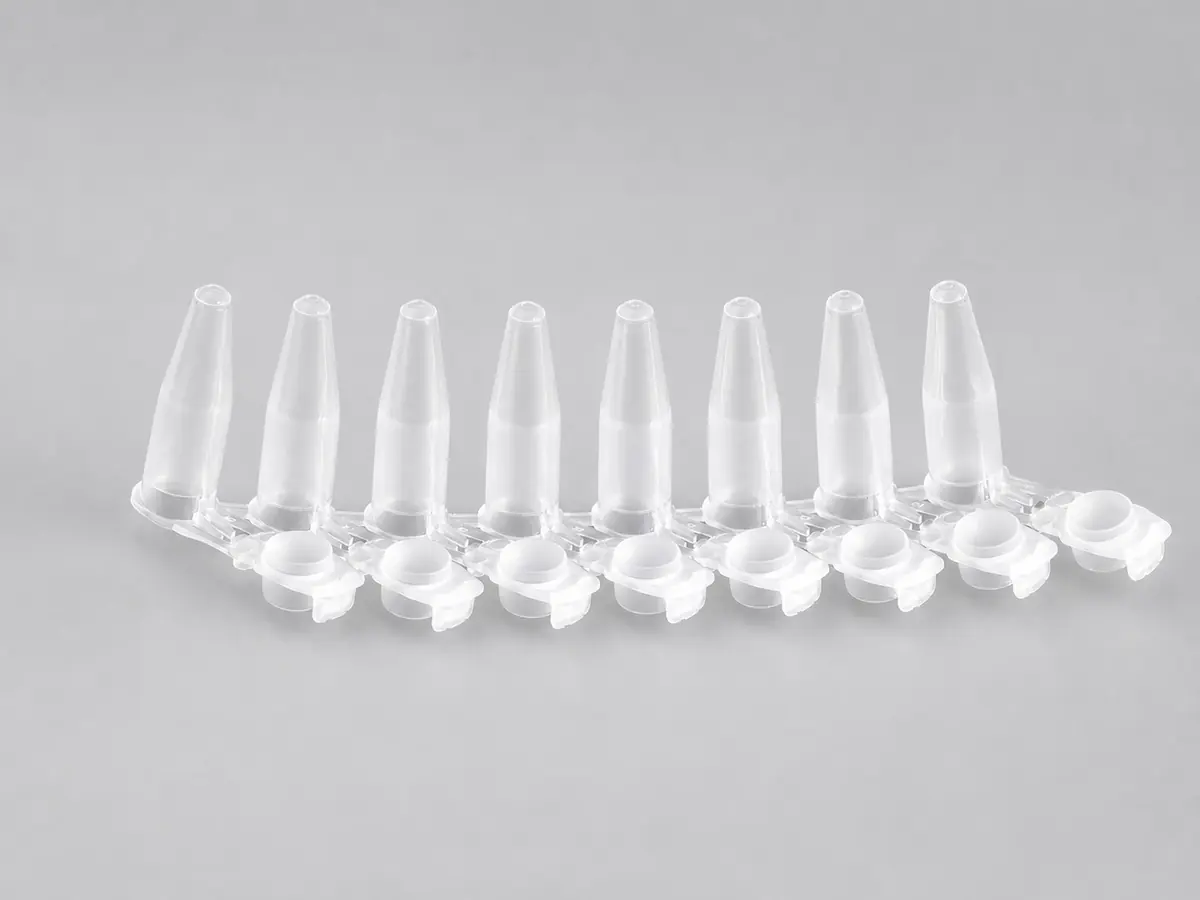
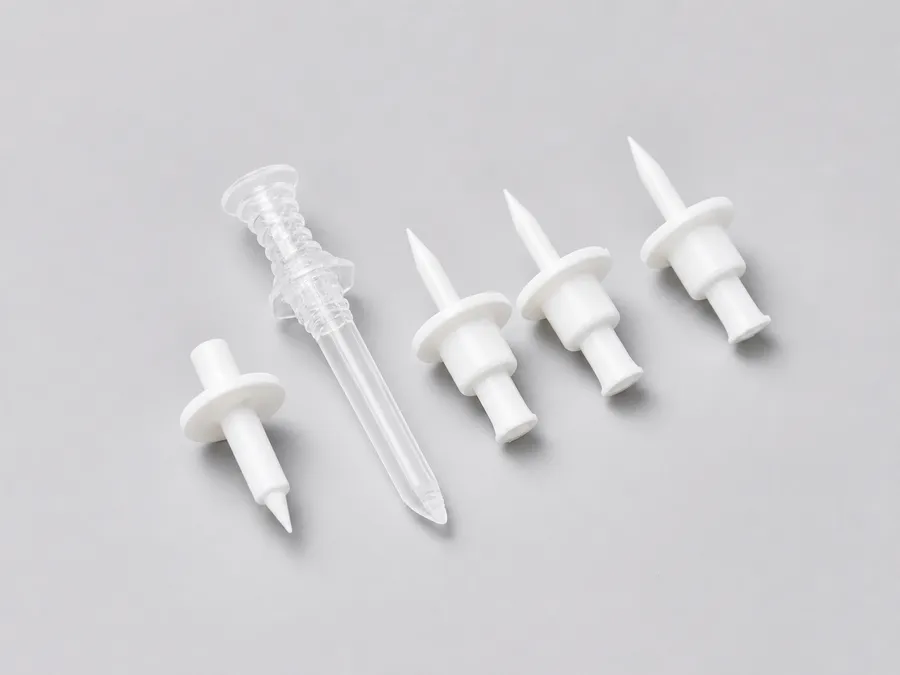
Update Montageservice, Karriere and Labor product images
- Montageservice: swap image, keep full frame (source aspect ratio, no
  crop), align top with heading, move closer to the text column
- Ueber uns: add machinery showcase section (Fraesen/Spritzguss/
  Senkerodieren) above the ISO certificate block
- Karriere: replace all three images, fix left alignment to match the
  container text below, reduce top section spacing
- Produkte: move Medizin to first position; replace the labor pipette
  strip image (no longer usable) with the provided replacement

Claude-Session: https://claude.ai/code/session_01Gbo3VVyPvTwPekFmSdEWrZ

Changed region(s): [[0.0933, 0.1867, 0.9956, 0.8089], [0.0, 0.0, 0.2489, 0.0622], [0.4356, 0.0, 0.4978, 0.0311]]

diff --git a/src/data/site.ts b/src/data/site.ts
@@ -129,6 +129,34 @@ export interface ProductGroup {
 
 export const productGroups: ProductGroup[] = [
   {
+    id: 'medizin',
+    title: 'Formen für die Medizintechnik',
+    cardTitle: 'Medizin',
+    cardText:
+      'Formen für Einmalspritzen, Schutzkappen und Kleinstteile. Partikelfreiheit und lange Lebensdauer sind dokumentierte Ansprüche.',
+    pills: ['Einmalspritzen', 'Schutzkappen', 'Kleinstteile'],
+    intro: [
+      'Für die Medizintechnik fertigt SKT Formen für Einmalspritzen, Adaptionen, Schutzkappen, Verbindungselemente und Kleinstteile.',
+      'Partikelfreiheit, austauschbare Ersatzteile und lange Lebensdauer sind die im Prospekt dokumentierten Ansprüche an diese Formen.',
+    ],
+    demands: [
+      'Reproduzierbare Qualität',
+      'Abfallfreie Produktion',
+      'Lange Lebensdauer',
+      'Austauschbare Ersatzteile',
+      'Partikelfreiheit',
+      'Wartungsarme Auslegung',
+    ],
+    examplesLabel: 'Produkte',
+    examples: ['Einmalspritzen', 'Adaption', 'Schutzkappen', 'Verbindungselemente', 'Kleinstteile'],
+    cardImage: { src: '/images/produkt-medizin-2.webp', width: 1200, height: 900 },
+    images: [
+      { src: '/images/produkt-medizin-1.webp', alt: 'Transparente medizinische Kunststoffspitzen mit rotem Musterteil', width: 1086, height: 1448 },
+      { src: '/images/produkt-medizin-2.webp', alt: 'Transparente medizinische Kunststoffteile mit Kanuele', width: 1200, height: 900 },
+    ],
+    pdf: { href: '/downloads/skt-flyer-medizin.pdf', label: 'Prospekt Medizin' },
+  },
+  {
     id: 'mehrkomponenten',
     title: 'Mehr-Komponenten-Formen',
     cardTitle: 'Mehr-Komponenten-Formen',
@@ -208,37 +236,9 @@ export const productGroups: ProductGroup[] = [
     cardImage: { src: '/images/produkt-labor-1.webp', width: 1200, height: 797 },
     images: [
       { src: '/images/produkt-labor-1.webp', alt: 'Blaue Kunststoffstaebe fuer Laboranwendungen', width: 1200, height: 797 },
-      { src: '/images/produkt-labor-2.webp', alt: 'Transparente Labor-Kunststoffteile in einer Reihe', width: 1200, height: 900 },
+      { src: '/images/produkt-labor-2.webp', alt: 'Transparente Labor-Kunststoffteile aus Spritzguss', width: 900, height: 675 },
     ],
     pdf: { href: '/downloads/skt-flyer-labor.pdf', label: 'Prospekt Labor' },
-  },
-  {
-    id: 'medizin',
-    title: 'Formen für die Medizintechnik',
-    cardTitle: 'Medizin',
-    cardText:
-      'Formen für Einmalspritzen, Schutzkappen und Kleinstteile. Partikelfreiheit und lange Lebensdauer sind dokumentierte Ansprüche.',
-    pills: ['Einmalspritzen', 'Schutzkappen', 'Kleinstteile'],
-    intro: [
-      'Für die Medizintechnik fertigt SKT Formen für Einmalspritzen, Adaptionen, Schutzkappen, Verbindungselemente und Kleinstteile.',
-      'Partikelfreiheit, austauschbare Ersatzteile und lange Lebensdauer sind die im Prospekt dokumentierten Ansprüche an diese Formen.',
-    ],
-    demands: [
-      'Reproduzierbare Qualität',
-      'Abfallfreie Produktion',
-      'Lange Lebensdauer',
-      'Austauschbare Ersatzteile',
-      'Partikelfreiheit',
-      'Wartungsarme Auslegung',
-    ],
-    examplesLabel: 'Produkte',
-    examples: ['Einmalspritzen', 'Adaption', 'Schutzkappen', 'Verbindungselemente', 'Kleinstteile'],
-    cardImage: { src: '/images/produkt-medizin-2.webp', width: 1200, height: 900 },
-    images: [
-      { src: '/images/produkt-medizin-1.webp', alt: 'Transparente medizinische Kunststoffspitzen mit rotem Musterteil', width: 1086, height: 1448 },
-      { src: '/images/produkt-medizin-2.webp', alt: 'Transparente medizinische Kunststoffteile mit Kanuele', width: 1200, height: 900 },
-    ],
-    pdf: { href: '/downloads/skt-flyer-medizin.pdf', label: 'Prospekt Medizin' },
   },
   {
     id: 'miniaturteile',
@@ -340,8 +340,19 @@ export const montageService = {
     'Montage von Baugruppen aus Ihren Spritzgussteilen',
     'Entgraten und Endbearbeitung',
   ],
-  image: { src: '/images/montageservice.webp', alt: 'Mitarbeiter bedient eine CNC-Fraesmaschine bei SKT', width: 1086, height: 1448 },
+  image: { src: '/images/montageservice.webp', alt: 'Mitarbeiter montiert ein Spritzgusswerkzeug bei SKT', width: 1086, height: 1448 },
   cta: { label: 'Montage anfragen', href: '/#anfrage' },
+};
+
+export const machineryShowcase = {
+  eyebrow: 'Ausstattung',
+  heading: 'Ein Einblick in unseren Maschinenpark',
+  intro: 'Drei Stationen auf dem Weg vom Rohteil zur fertigen Form: Fräsen, Spritzguss und Senkerodieren.',
+  images: [
+    { src: '/images/maschinenpark-fraesen.webp', alt: 'DMG Mori CMX 600 V bei SKT', caption: 'CNC-Fräsen', width: 1086, height: 1448 },
+    { src: '/images/maschinenpark-spritzguss.webp', alt: 'ENGEL Spritzgussmaschine bei SKT', caption: 'Spritzguss', width: 1086, height: 1448 },
+    { src: '/images/maschinenpark-erodieren.webp', alt: 'OPS Ingersoll Gantry Eagle 400 bei SKT', caption: 'Senkerodieren', width: 1086, height: 1448 },
+  ],
 };
 
 export const aboutTeaser = {
